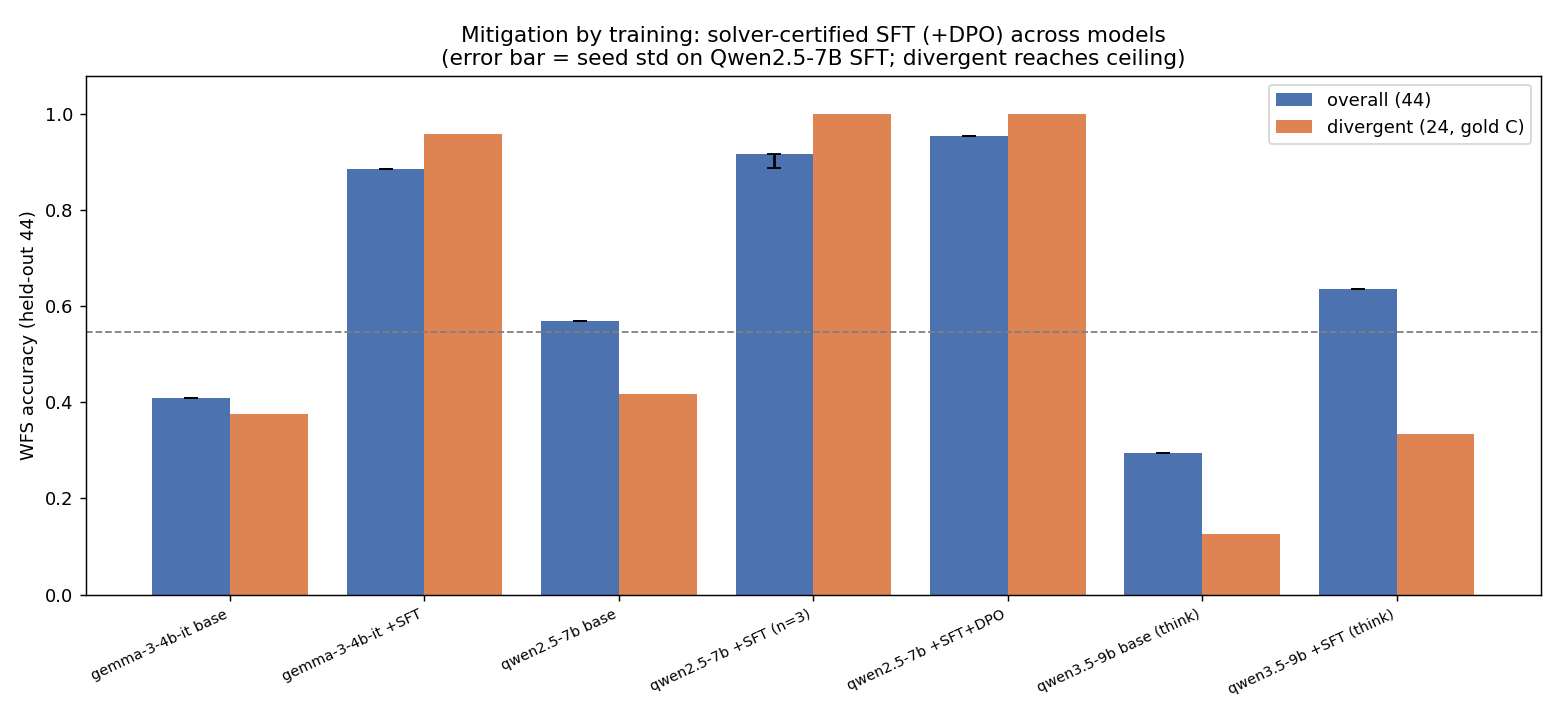
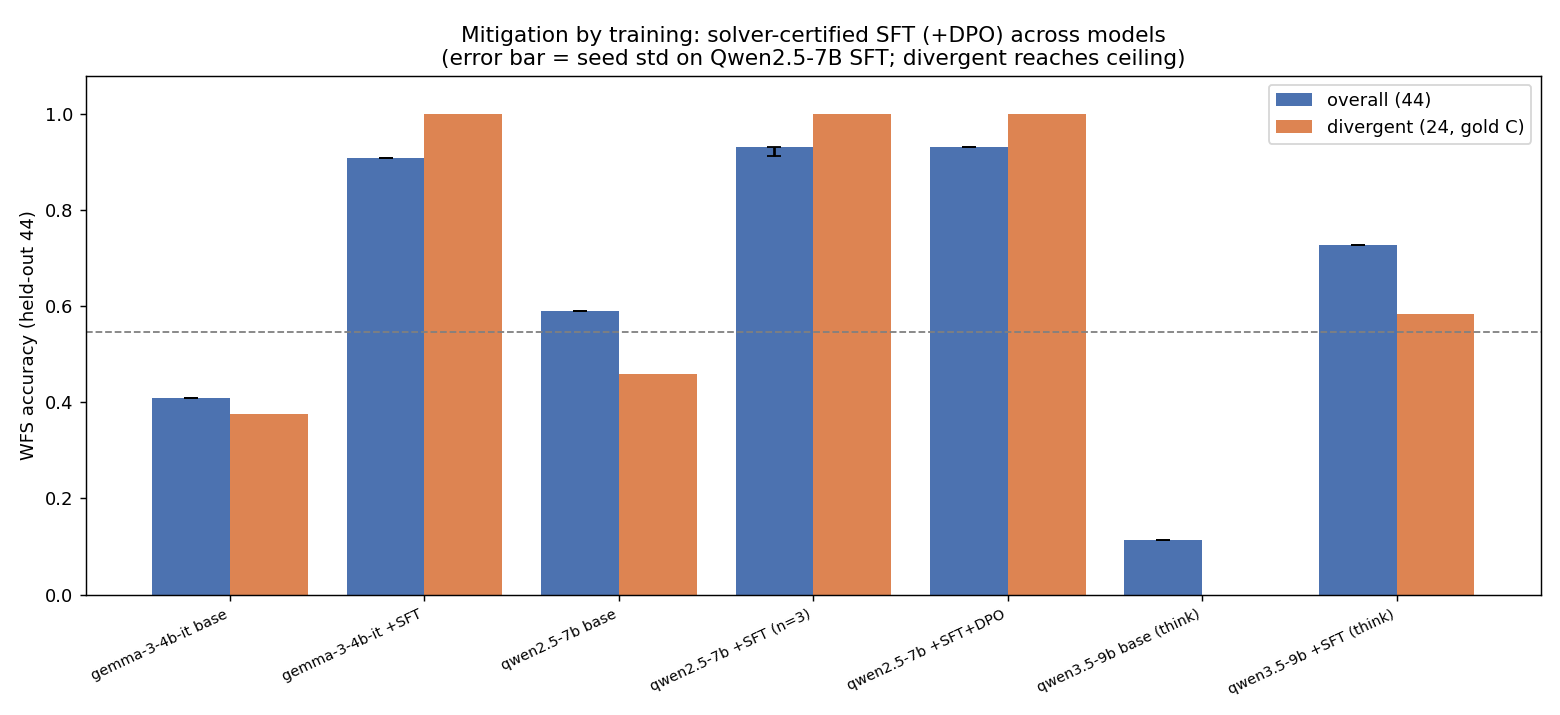
Paper revision log: trace-analysis + collaborator review round
Records the 2026-07-23 paper-side revisions (source is gitignored for
anonymity): the reasoning-trace analysis fixes (llama3 re-parse, DeepSeek
caveat, new supplement), the >=30-sample T2S/verify mitigations, table/format
consistency, and the collaborator results-section fixes (SFT transfer table,
"+22 items" correction, Table 8 reconciled to current eval, E3 dataset
clarification, kirichenko2025 citation added). Also refreshes train_summary.png.

diff --git a/PAPER_CHANGELOG.md b/PAPER_CHANGELOG.md
@@ -1,0 +1,40 @@
+# Paper revision log
+
+The submission source (`negbench_paper/*.tex`) is gitignored for anonymity, so
+this file is the tracked record of paper-side revisions. Data/scripts backing each
+change are committed under `data/` and the repo root.
+
+## 2026-07-23 — trace analysis + collaborator review round
+
+**Reasoning-trace analysis (Agnieszka / Opus-4.8 audit).**
+- §12 parser artifact fixed: re-parsed llama3 production answers with the fixed
+  `ANSWER_RE`; 5 items change (3 spuriously-correct → wrong), llama3 strict 47→46%.
+  Table 1 (skept 67→64, rev 69→68), Table 2 (odd 37→36, even-2 51→50) updated.
+- DeepSeek reasoning-vs-answer gap reported, not re-scored (80% of WFS-undefined
+  traces reach "undefined", only 26% render "C"); added as an E5 caveat.
+- New `Supplement2027.tex`: strategy table, "instruction can hurt" table
+  (o4-mini none-vs-WFS 97→70 / 0→73 / 40→100), per-model synthesis, DeepSeek gap,
+  parsing notes, both mitigation prompts verbatim, case studies.
+
+**≥30-sample mitigations (44 diverse WFS programs; replaces the 12-item probe).**
+- Table 7 (T2S): direct vs +solver, 59/95, 49/74, 62/89 (parsed %).
+- Mitigation 3 (verify): every open model improves (59→82, 62→69, 49→62).
+- Harnesses: `make_wfs_big_verify.py`, `translate_solve_set.py`,
+  `run_wfs_big_all.sh`; answers in `data/{wfs_big,wfs_big_verify,t2s_big}_answers`.
+
+**Presentation / consistency.**
+- All tables report % with denominators stated; per-bin (30 programs × 4 semantics)
+  and per-cell counts added. Silver Blaze epigraph added. Body = 7 full pages,
+  references on 8–9.
+
+**Collaborator results-section questions (resolved).**
+- SFT transfer numbers (40/44=91% narrative, 28/44=64% abstract) documented in a
+  supplement table; the earlier "+22 points" corrected to +22 *items*
+  (18/44→40/44). Table 8 reconciled to the current eval: gemma 41/91,
+  qwen2.5-7b 59/93/93 (+SFT = mean of 3 seeds; DPO neutral).
+- E3 clarified: the OLS is fit over the 360-prompt all-bin set
+  (4 bins × depths {2,8,16} × widths {0,4,8}); Table 3 is the even-one-sided
+  size-marginal view.
+- Added missing citation `kirichenko2025` (AbstentionBench) to `references.bib`
+  (metadata pending collaborator confirmation); fixed a cross-document `\ref` in
+  the supplement.
